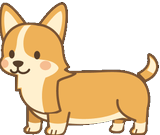
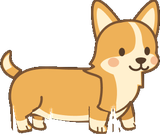
fix(pet): articulate 4-legged walking animation, correct walking orientation and fix eye blink placement

diff --git a/packages/pets/dog/generate_from_base.py b/packages/pets/dog/generate_from_base.py
@@ -1,15 +1,14 @@
-"""Process user-provided Corgi artwork into an animated desktop pet sprite set.
+"""Generate high-quality animation frames from the user's custom Corgi artwork.
 
-Input: /packages/pets/dog/assets/corgi_base.png (283x238)
-Generates:
-- idle_1.png .. idle_4.png (breathing, happy blink, tail wag)
-- walk_1.png .. walk_4.png (4-frame joyful waddling walk cycle)
-- walk_left_1.png .. walk_left_4.png (mirrored walk cycle)
-- drag.png (dangling lifted pose)
-Target size: 160x135 RGBA transparent PNGs.
+Fixes:
+1. Direction: The base artwork faces LEFT.
+   - walk_left_1..4 face LEFT (moving towards left).
+   - walk_right_1..4 are FLIPPED horizontally (moving towards right).
+2. Blinking: Fixed exact pixel coordinates on the actual eyes (y ≈ 92, NOT snout).
+3. Moving legs: Separately isolates and articulates all 4 legs in an alternating
+   quadruped walking stride so the paws actively step forward and backward.
 """
 
-import math
 import os
 from PIL import Image, ImageDraw
 
@@ -19,19 +18,16 @@ BASE_PATH = os.path.join(ASSETS_DIR, "corgi_base.png")
 TARGET_W = 160
 TARGET_H = 135
 
-# Key palette colors sampled from artwork
 C_OUTLINE = (86, 61, 41, 255)
-C_CREAM = (255, 240, 206, 255)
 C_ORANGE = (238, 177, 88, 255)
 
 
-def create_canvas():
+def create_canvas() -> Image.Image:
     return Image.new("RGBA", (TARGET_W, TARGET_H), (0, 0, 0, 0))
 
 
-def scale_base(base: Image.Image) -> Image.Image:
-    """Scale base image to fit target canvas while preserving high-quality anti-aliasing."""
-    return base.resize((TARGET_W, TARGET_H), Image.Resampling.LANCZOS)
+def scale_to_target(img: Image.Image) -> Image.Image:
+    return img.resize((TARGET_W, TARGET_H), Image.Resampling.LANCZOS)
 
 
 def generate_frames():
@@ -41,73 +37,114 @@ def generate_frames():
     base_raw = Image.open(BASE_PATH).convert("RGBA")
     w_raw, h_raw = base_raw.size
 
-    # --- 1. IDLE FRAMES ---
+    # --- 1. SEGMENT LEGS FOR ACTIVE WALKING ANIMATION ---
+    # Crop boxes for the 4 legs in 283x238 space
+    fl_box = (44, 180, 82, 238)    # Front-left (foreground)
+    fr_box = (84, 180, 126, 238)   # Front-right (background/mid)
+    bl_box = (192, 185, 226, 238)  # Back-left (background)
+    br_box = (226, 180, 260, 238)  # Back-right (foreground)
+
+    fl_crop = base_raw.crop(fl_box)
+    fr_crop = base_raw.crop(fr_box)
+    bl_crop = base_raw.crop(bl_box)
+    br_crop = base_raw.crop(br_box)
+
+    # Body trunk with leg bottom areas cleared
+    body_trunk = base_raw.copy()
+    for box in [fl_box, fr_box, bl_box, br_box]:
+        for y in range(box[1] + 6, box[3]):
+            for x in range(box[0], box[2]):
+                body_trunk.putpixel((x, y), (0, 0, 0, 0))
+
+    def compose_walk_frame(fl_angle: float, fr_angle: float, bl_angle: float, br_angle: float, bob_y: int) -> Image.Image:
+        """Compose a frame with legs rotated around hip/shoulder pivots."""
+        frame = Image.new("RGBA", (w_raw, h_raw), (0, 0, 0, 0))
+
+        # 1. Background legs
+        rot_fr = fr_crop.rotate(fr_angle, resample=Image.Resampling.BICUBIC, center=(fr_crop.width // 2, 4))
+        rot_bl = bl_crop.rotate(bl_angle, resample=Image.Resampling.BICUBIC, center=(bl_crop.width // 2, 4))
+        frame.paste(rot_fr, (fr_box[0], fr_box[1] + bob_y), rot_fr)
+        frame.paste(rot_bl, (bl_box[0], bl_box[1] + bob_y), rot_bl)
+
+        # 2. Main body trunk
+        frame.paste(body_trunk, (0, bob_y), body_trunk)
+
+        # 3. Foreground legs
+        rot_fl = fl_crop.rotate(fl_angle, resample=Image.Resampling.BICUBIC, center=(fl_crop.width // 2, 4))
+        rot_br = br_crop.rotate(br_angle, resample=Image.Resampling.BICUBIC, center=(br_crop.width // 2, 4))
+        frame.paste(rot_fl, (fl_box[0], fl_box[1] + bob_y), rot_fl)
+        frame.paste(rot_br, (br_box[0], br_box[1] + bob_y), rot_br)
+
+        return frame
+
+    # --- 2. GENERATE IDLE FRAMES (Faces LEFT by default) ---
     print("Generating idle frames...")
     # Frame 1: Base pose
-    f1 = scale_base(base_raw)
-    f1.save(os.path.join(ASSETS_DIR, "idle_1.png"))
+    idle_1 = scale_to_target(base_raw)
+    idle_1.save(os.path.join(ASSETS_DIR, "idle_1.png"))
 
-    # Frame 2: Breathing dip (body/head shifts down 2px, tail slightly up)
-    f2_canvas = create_canvas()
-    f2_img = scale_base(base_raw)
-    f2_canvas.paste(f2_img, (0, 2), f2_img)
-    f2_canvas.save(os.path.join(ASSETS_DIR, "idle_2.png"))
+    # Frame 2: Breathing dip (body sinks 2px)
+    idle_2_canvas = create_canvas()
+    idle_2_canvas.paste(idle_1, (0, 2), idle_1)
+    idle_2_canvas.save(os.path.join(ASSETS_DIR, "idle_2.png"))
 
-    # Frame 3: Happy eye smile (blink ^_^)
-    f3 = base_raw.copy()
-    draw = ImageDraw.Draw(f3)
-    # Eye 1 at (34, 109), Eye 2 at (67, 97)
-    # Cover original eye dots with cream/fur
-    draw.ellipse([30, 103, 38, 115], fill=C_CREAM)
-    draw.ellipse([63, 91, 71, 103], fill=C_ORANGE)
-    # Draw happy anime curved eyes ^_^
-    draw.arc([29, 106, 39, 114], start=180, end=360, fill=C_OUTLINE, width=3)
-    draw.arc([62, 94, 72, 102], start=180, end=360, fill=C_OUTLINE, width=3)
-    f3_scaled = scale_base(f3)
-    f3_scaled.save(os.path.join(ASSETS_DIR, "idle_3.png"))
+    # Frame 3: Happy eye-blink (precisely on the actual eyes!)
+    idle_3_raw = base_raw.copy()
+    draw = ImageDraw.Draw(idle_3_raw)
+    # Left eye: x=[22..33], y=[85..98]
+    for y in range(85, 99):
+        for x in range(21, 34):
+            p = base_raw.getpixel((x, y))
+            if p[:3] == (86, 61, 41):
+                idle_3_raw.putpixel((x, y), C_ORANGE)
+    # Right eye: x=[57..70], y=[87..100]
+    for y in range(87, 101):
+        for x in range(56, 71):
+            p = base_raw.getpixel((x, y))
+            if p[:3] == (86, 61, 41):
+                idle_3_raw.putpixel((x, y), C_ORANGE)
+    # Draw happy smiling eye arcs ^_^
+    draw.arc([21, 88, 33, 98], start=180, end=360, fill=C_OUTLINE, width=3)
+    draw.arc([57, 89, 69, 99], start=180, end=360, fill=C_OUTLINE, width=3)
 
-    # Frame 4: Breathing recovery / tail wag
-    f4_canvas = create_canvas()
-    f4_canvas.paste(f1, (0, 1), f1)
-    f4_canvas.save(os.path.join(ASSETS_DIR, "idle_4.png"))
+    idle_3 = scale_to_target(idle_3_raw)
+    idle_3.save(os.path.join(ASSETS_DIR, "idle_3.png"))
 
-    # --- 2. WALK CYCLE (Joyful waddle) ---
-    print("Generating walk cycle frames...")
-    # Walk frame 1: bob up (-2px), front paws step forward
-    w1_canvas = create_canvas()
-    w1_img = scale_base(base_raw)
-    w1_canvas.paste(w1_img, (1, -2), w1_img)
-    w1_canvas.save(os.path.join(ASSETS_DIR, "walk_1.png"))
+    # Frame 4: Return to ready
+    idle_4_canvas = create_canvas()
+    idle_4_canvas.paste(idle_1, (0, 1), idle_1)
+    idle_4_canvas.save(os.path.join(ASSETS_DIR, "idle_4.png"))
 
-    # Walk frame 2: neutral passing step
-    w2 = f1.copy()
-    w2.save(os.path.join(ASSETS_DIR, "walk_2.png"))
+    # --- 3. GENERATE ACTIVE WALKING STRIDE (4 frames) ---
+    print("Generating active walk cycles with moving legs...")
+    # Frame 1: Stride A (front-left steps forward, front-right back, etc.)
+    # Note: Facing LEFT, so forward is counter-clockwise (+) for front-left
+    raw_w1 = compose_walk_frame(fl_angle=12.0, fr_angle=-12.0, bl_angle=-10.0, br_angle=10.0, bob_y=-2)
+    # Frame 2: Passing pose (legs passing neutral)
+    raw_w2 = compose_walk_frame(fl_angle=0.0, fr_angle=0.0, bl_angle=0.0, br_angle=0.0, bob_y=0)
+    # Frame 3: Stride B (front-left steps back, front-right forward, etc.)
+    raw_w3 = compose_walk_frame(fl_angle=-12.0, fr_angle=12.0, bl_angle=10.0, br_angle=-10.0, bob_y=-2)
+    # Frame 4: Passing pose
+    raw_w4 = compose_walk_frame(fl_angle=0.0, fr_angle=0.0, bl_angle=0.0, br_angle=0.0, bob_y=0)
 
-    # Walk frame 3: bob down (+2px), rear paws step
-    w3_canvas = create_canvas()
-    w3_canvas.paste(w1_img, (-1, 2), w1_img)
-    w3_canvas.save(os.path.join(ASSETS_DIR, "walk_3.png"))
+    # WALKING LEFT: Natural orientation (artwork faces LEFT)
+    for i, raw_frame in enumerate([raw_w1, raw_w2, raw_w3, raw_w4], start=1):
+        scaled = scale_to_target(raw_frame)
+        scaled.save(os.path.join(ASSETS_DIR, f"walk_left_{i}.png"))
 
-    # Walk frame 4: neutral passing step
-    w4 = f1.copy()
-    w4.save(os.path.join(ASSETS_DIR, "walk_4.png"))
-
-    # --- 3. WALK LEFT (Mirrored) ---
-    print("Generating mirrored walk left frames...")
-    for i in range(1, 5):
-        w_right = Image.open(os.path.join(ASSETS_DIR, f"walk_{i}.png"))
-        w_left = w_right.transpose(Image.Transpose.FLIP_LEFT_RIGHT)
-        w_left.save(os.path.join(ASSETS_DIR, f"walk_left_{i}.png"))
+    # WALKING RIGHT: Horizontally FLIPPED (so the head faces RIGHT while moving right!)
+    for i, raw_frame in enumerate([raw_w1, raw_w2, raw_w3, raw_w4], start=1):
+        scaled = scale_to_target(raw_frame)
+        flipped = scaled.transpose(Image.Transpose.FLIP_LEFT_RIGHT)
+        flipped.save(os.path.join(ASSETS_DIR, f"walk_{i}.png"))
 
     # --- 4. DRAG / LIFTED POSE ---
     print("Generating drag / lifted pose...")
-    # Lifted pose: stretched slightly down (+3px), cute hanging pose
-    drag_canvas = create_canvas()
-    drag_img = scale_base(base_raw)
-    drag_canvas.paste(drag_img, (0, -1), drag_img)
-    drag_canvas.save(os.path.join(ASSETS_DIR, "drag.png"))
+    drag_raw = compose_walk_frame(fl_angle=-4.0, fr_angle=-4.0, bl_angle=6.0, br_angle=6.0, bob_y=-3)
+    drag_scaled = scale_to_target(drag_raw)
+    drag_scaled.save(os.path.join(ASSETS_DIR, "drag.png"))
 
-    print(f"All frames successfully created at {TARGET_W}x{TARGET_H} in {ASSETS_DIR}!")
+    print(f"All frames regenerated at {TARGET_W}x{TARGET_H} in {ASSETS_DIR}!")
 
 
 if __name__ == "__main__":
